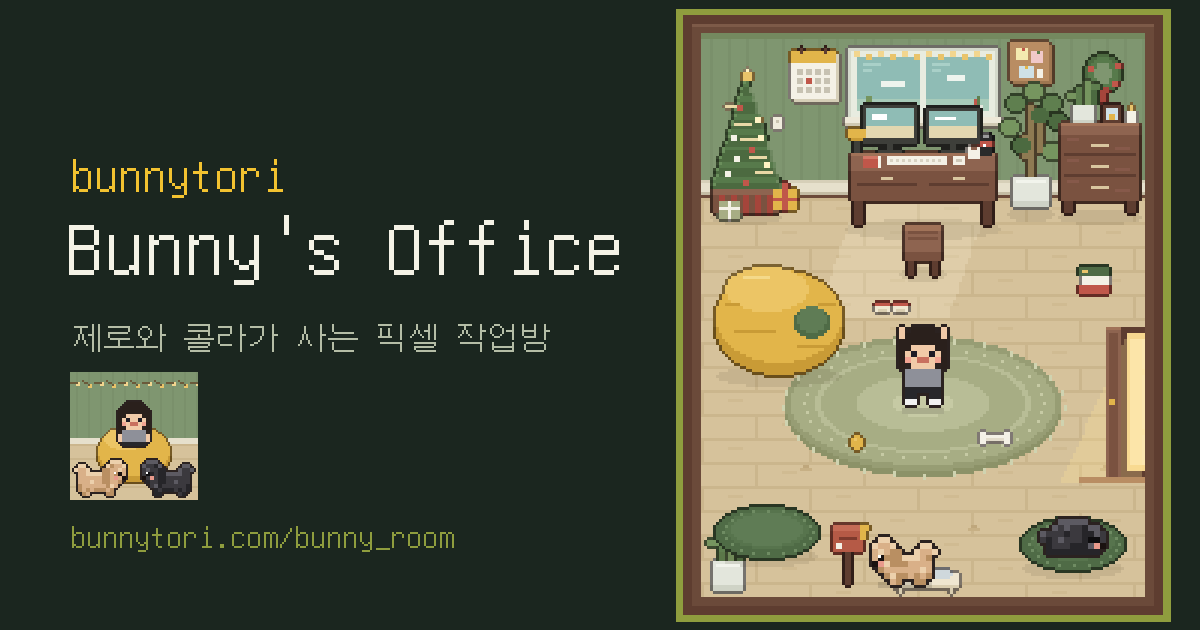
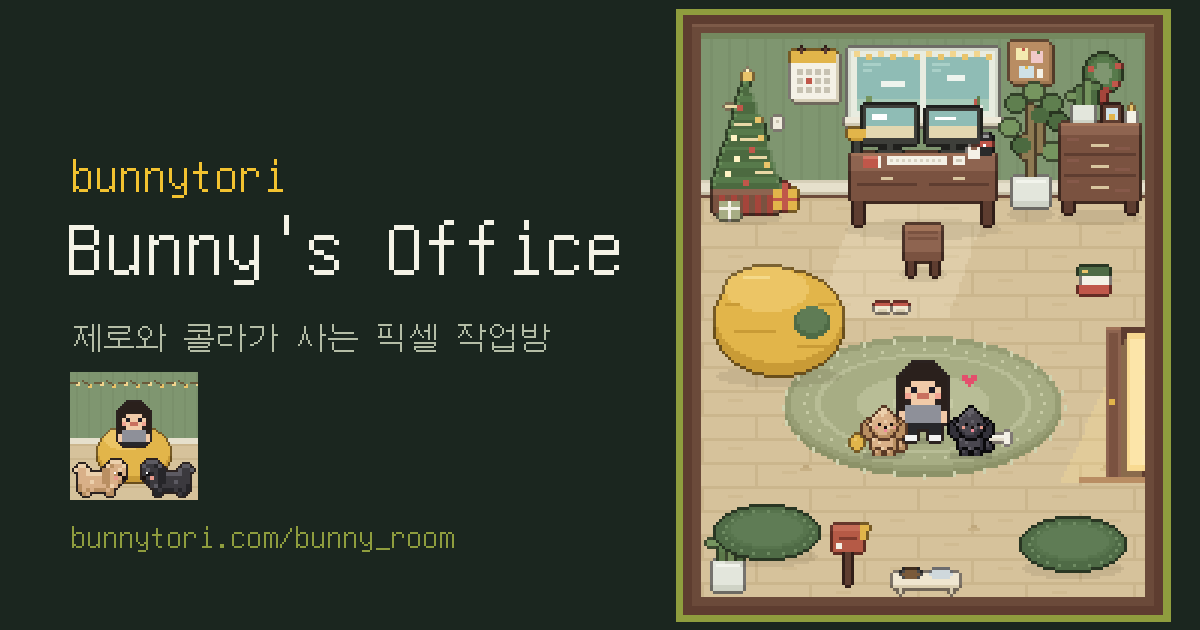
Dogs: smaller front-facing sitting poodles with floppy ears and outline
Claude-Session: https://claude.ai/code/session_017jBMJu5sbdsGT4cjNbDcNS

Changed region(s): [[0.7092, 0.5127, 0.8325, 0.7238], [0.7092, 0.8444, 0.8017, 0.9349], [0.8633, 0.8143, 0.925, 0.9048]]

diff --git a/bunny_room/index.html b/bunny_room/index.html
@@ -326,24 +326,21 @@ function person(c,ox,oy,L,pose,frame,k=1){
     if(L.pattern&&L.pattern[ch]&&((x+y)%2===0))col=L.pattern[ch];
     Rc(c,ox+x*k,oy+y*k,k,k,col);}});
 }
-const D_STAND=[".ll........","lhhl....ll.","hhhdd..lhhl","hehddlllhh.","nbhddhhhhh.",".hhhhhhhhh.","..dhddhdhd."];
-const D_LEGS=["..hd...hd..","...hd..hd..","..hd....hd."];
-const D_SLEEP=["...lllll...",".llhhhhhl..","hhddhhhhhhl","heedhhhhhhh","nbhddhhhhd.",".ddddddddd."];
+const D_POSE={"sit": [".......oo.......", "......ollo......", ".....olllho.....", "....olhlhhho....", "..oolhhhhhhdoo..", ".odohhhhhhhhodo.", "odolhhehhheddodo", "oddohbhhnhhboddo", "oddodhhhthddoddo", "odddodhhhddodddo", ".oddooddddooddo.", "..oolhoooohdoo..", "...ohhhhhhhdoho.", "...ohhhhhhhdohdo", "...odoohhoododdo", "....ohdoohdoooo.", "....oddooddo...."], "walk1": ["................", ".......oo.......", "......ollo......", ".....olllho.....", "....olhlhhho....", "..oolhhhhhhdoo..", ".odohhhhhhhhodo.", "odolhhehhheddodo", "oddohbhhnhhboddo", "oddodhhhthddoddo", "odddodhhhddodddo", ".oddooddddooddo.", "..oohhoooohdooo.", "...ohoohhhhdohdo", "...oohdohoododdo", "....oddoohdoooo.", ".....ooooddo...."], "walk2": [".......oo.......", "......ollo......", ".....olllho.....", "....olhlhhho....", "..oolhhhhhhdoo..", ".odohhhhhhhhodo.", "odolhhehhheddodo", "oddohbhhnhhboddo", "oddodhhhthddoddo", "odddodhhhddodddo", ".oddooddddooddo.", "..oolhoooohdoo..", "...ohhhhhhhdoho.", "...ohhhhhoodohdo", "...odoohohdooddo", "....ohdooddoooo.", "....oddoooo....."], "sleep": ["................", "................", "................", "................", "................", "................", "................", "...ooooo........", "..olhhhhooo.....", ".olhhhhhdohoo...", ".ohhhhhhdohhho..", ".ohhehhedohhhdo.", ".odbhnhdbohhhdoo", ".oodddddohhhddoo", ".odooooohhdddoo.", "..oooodddddooo..", "......ooooo....."]};
 function dog(c,ox,oy,L,pose,frame,flip,k=1){
-  const rows=pose==='sleep'?D_SLEEP:D_STAND.concat([D_LEGS[pose==='walk'?frame:0]]);
-  rows.forEach((r,y)=>{for(let x=0;x<11;x++){const ch=r[x];if(ch==='.')continue;
-    let col={h:L.h,l:L.l,d:L.d,e:L.eye,n:'#1a1210',b:'#e99a8c'}[ch];
-    if(ch==='h'&&(x*3+y*5)%7===0)col=L.d;
+  // front-facing sitting poodle (16x17), its own dark outline included
+  const rows=pose==='sleep'?D_POSE.sleep:pose==='walk'?(frame===2?D_POSE.walk2:D_POSE.walk1):D_POSE.sit;
+  rows.forEach((r,y)=>{for(let x=0;x<16;x++){const ch=r[x];if(ch==='.')continue;
+    let col={o:L.o,h:L.h,l:L.l,d:L.d,e:L.eye,n:'#1a1210',t:'#f08a9a',b:'#e99a8c'}[ch];
     if(ch==='h'&&(x*5+y*3)%11===0)col=L.l;
-    Rc(c,ox+(flip?10-x:x)*k,oy+y*k,k,k,col);}});
-  if(pose!=='sleep'){const ex=flip?ox+9*k:ox+1*k;Rc(c,ex,oy+3*k,1,1,'#ffffff');}
+    Rc(c,ox+(flip?15-x:x)*k,oy+y*k,k,k,col);}});
 }
 
 /* ---------- cast ---------- */
 const ACTORS=[
   {id:'me',name:'나',kind:'person',look:null},
-  {id:'latte',name:'제로',kind:'dog',look:{h:'#d9b088',l:'#ecd0ac',d:'#b98f62',eye:'#1a1210'}},
-  {id:'choco',name:'콜라',kind:'dog',look:{h:'#3b393e',l:'#5c5a62',d:'#262529',eye:'#0e0d0f'}},
+  {id:'latte',name:'제로',kind:'dog',look:{o:'#5a3a26',h:'#d9b088',l:'#ecd0ac',d:'#b98f62',eye:'#1a1210'}},
+  {id:'choco',name:'콜라',kind:'dog',look:{o:'#0b0a0c',h:'#4a474f',l:'#646169',d:'#33313a',eye:'#0b0a0c'}},
 ];
 const byId=Object.fromEntries(ACTORS.map(a=>[a.id,a]));
 /* outfits: grey hoodie + black pants while working (9–20), red check pyjamas otherwise */
@@ -586,12 +583,12 @@ function sprite2(kind,look,pose,frame,flip,x,y){
   let c=SPR.get(key);
   if(!c){const w=kind==='dog'?30:20,h=kind==='dog'?24:32,ox=2,oy=kind==='dog'?2:4;
     const tmp=document.createElement('canvas');tmp.width=w;tmp.height=h;const tc=tmp.getContext('2d');
-    const draw=()=>{if(kind==='dog')dog(tc,ox,oy,look,pose,frame,flip,2);else person(tc,ox,oy,look,pose,frame,2);};
+    const draw=()=>{if(kind==='dog')dog(tc,ox,oy,look,pose,frame,flip,1);else person(tc,ox,oy,look,pose,frame,2);};
     draw();
     c=document.createElement('canvas');c.width=w;c.height=h;const cc=c.getContext('2d');
     // outline computed from the drawn sprite
     const d=tc.getImageData(0,0,w,h).data,out=cc.createImageData(w,h),o=out.data;
-    for(let yy=0;yy<h;yy++)for(let xx=0;xx<w;xx++){const i=(yy*w+xx)*4;if(d[i+3]>20)continue;
+    if(kind!=='dog')for(let yy=0;yy<h;yy++)for(let xx=0;xx<w;xx++){const i=(yy*w+xx)*4;if(d[i+3]>20)continue;
       for(const [dx,dy] of [[1,0],[-1,0],[0,1],[0,-1]]){const nx=xx+dx,ny=yy+dy;if(nx<0||ny<0||nx>=w||ny>=h)continue;if(d[(ny*w+nx)*4+3]>200){o[i]=43;o[i+1]=34;o[i+2]=32;o[i+3]=255;break;}}}
     cc.putImageData(out,0,0);cc.drawImage(tmp,0,0);c.ox=ox;c.oy=oy;SPR.set(key,c);}
   ctx.drawImage(c,Math.round(x)-c.ox,Math.round(y)-c.oy);
@@ -1142,7 +1139,7 @@ function step(now){
   const items=(VIEW==='work'?FURN:LFURN).map((f,i)=>({y:f.y,draw:()=>{{const k=(VIEW==='work'?'f':'l')+i;if(!OL[k])OL[k]=outlineOf(f.d,W,H);ctx.drawImage(OL[k],0,0);}f.d(t);}}));
   ACTORS.filter(a=>a.scene===VIEW).forEach(a=>items.push({y:a.y,draw:()=>{
     const x=Math.round(a.x),y=Math.round(a.y);
-    if(a.kind==='dog'){R(x-9,y-1,18,2,'rgba(0,0,0,.13)');const hop=(a.pop>1.6)?-3:0;sprite2('dog',a.look,a.pose,a.frame,a.flip,x-11,y-(a.pose==='sleep'?12:16)+hop);}
+    if(a.kind==='dog'){R(x-7,y-1,14,2,'rgba(0,0,0,.13)');const hop=(a.pop>1.6)?-2:0;sprite2('dog',a.look,a.pose,a.frame,a.flip,x-8,y-17+hop);}
     else{const st=a.pose!=='sit'&&a.pose!=='sitback';if(st)R(x-7,y-1,14,2,'rgba(0,0,0,.14)');
       const bob=a.pose==='stretch'&&Math.floor(t*2)%2?-1:0;
       sprite2('person',a.look,a.pose,a.frame,false,x-8,y-(st?26:22)+bob);}
@@ -1154,7 +1151,7 @@ function step(now){
   drawHearts(dt);
   ACTORS.forEach(a=>{
     a.el.style.display=a.scene===VIEW?'':'none';
-    const top=a.kind==='dog'?(a.pose==='sleep'?13:17):(a.pose==='sit'||a.pose==='sitback'?23:a.pose==='stretch'?29:27);
+    const top=a.kind==='dog'?(a.pose==='sleep'?11:18):(a.pose==='sit'||a.pose==='sitback'?23:a.pose==='stretch'?29:27);
     a.el.style.left=a.x/W*100+'%';a.el.style.top=(a.y-top)/H*100+'%';
     const moving=a.kind==='dog'?a.pose==='walk':a.path.length>0;
     const txt=a.pop>0?a.popText:(a.id==='me'&&!moving?a.bubble:'');

diff --git a/index.html b/index.html
@@ -326,24 +326,21 @@ function person(c,ox,oy,L,pose,frame,k=1){
     if(L.pattern&&L.pattern[ch]&&((x+y)%2===0))col=L.pattern[ch];
     Rc(c,ox+x*k,oy+y*k,k,k,col);}});
 }
-const D_STAND=[".ll........","lhhl....ll.","hhhdd..lhhl","hehddlllhh.","nbhddhhhhh.",".hhhhhhhhh.","..dhddhdhd."];
-const D_LEGS=["..hd...hd..","...hd..hd..","..hd....hd."];
-const D_SLEEP=["...lllll...",".llhhhhhl..","hhddhhhhhhl","heedhhhhhhh","nbhddhhhhd.",".ddddddddd."];
+const D_POSE={"sit": [".......oo.......", "......ollo......", ".....olllho.....", "....olhlhhho....", "..oolhhhhhhdoo..", ".odohhhhhhhhodo.", "odolhhehhheddodo", "oddohbhhnhhboddo", "oddodhhhthddoddo", "odddodhhhddodddo", ".oddooddddooddo.", "..oolhoooohdoo..", "...ohhhhhhhdoho.", "...ohhhhhhhdohdo", "...odoohhoododdo", "....ohdoohdoooo.", "....oddooddo...."], "walk1": ["................", ".......oo.......", "......ollo......", ".....olllho.....", "....olhlhhho....", "..oolhhhhhhdoo..", ".odohhhhhhhhodo.", "odolhhehhheddodo", "oddohbhhnhhboddo", "oddodhhhthddoddo", "odddodhhhddodddo", ".oddooddddooddo.", "..oohhoooohdooo.", "...ohoohhhhdohdo", "...oohdohoododdo", "....oddoohdoooo.", ".....ooooddo...."], "walk2": [".......oo.......", "......ollo......", ".....olllho.....", "....olhlhhho....", "..oolhhhhhhdoo..", ".odohhhhhhhhodo.", "odolhhehhheddodo", "oddohbhhnhhboddo", "oddodhhhthddoddo", "odddodhhhddodddo", ".oddooddddooddo.", "..oolhoooohdoo..", "...ohhhhhhhdoho.", "...ohhhhhoodohdo", "...odoohohdooddo", "....ohdooddoooo.", "....oddoooo....."], "sleep": ["................", "................", "................", "................", "................", "................", "................", "...ooooo........", "..olhhhhooo.....", ".olhhhhhdohoo...", ".ohhhhhhdohhho..", ".ohhehhedohhhdo.", ".odbhnhdbohhhdoo", ".oodddddohhhddoo", ".odooooohhdddoo.", "..oooodddddooo..", "......ooooo....."]};
 function dog(c,ox,oy,L,pose,frame,flip,k=1){
-  const rows=pose==='sleep'?D_SLEEP:D_STAND.concat([D_LEGS[pose==='walk'?frame:0]]);
-  rows.forEach((r,y)=>{for(let x=0;x<11;x++){const ch=r[x];if(ch==='.')continue;
-    let col={h:L.h,l:L.l,d:L.d,e:L.eye,n:'#1a1210',b:'#e99a8c'}[ch];
-    if(ch==='h'&&(x*3+y*5)%7===0)col=L.d;
+  // front-facing sitting poodle (16x17), its own dark outline included
+  const rows=pose==='sleep'?D_POSE.sleep:pose==='walk'?(frame===2?D_POSE.walk2:D_POSE.walk1):D_POSE.sit;
+  rows.forEach((r,y)=>{for(let x=0;x<16;x++){const ch=r[x];if(ch==='.')continue;
+    let col={o:L.o,h:L.h,l:L.l,d:L.d,e:L.eye,n:'#1a1210',t:'#f08a9a',b:'#e99a8c'}[ch];
     if(ch==='h'&&(x*5+y*3)%11===0)col=L.l;
-    Rc(c,ox+(flip?10-x:x)*k,oy+y*k,k,k,col);}});
-  if(pose!=='sleep'){const ex=flip?ox+9*k:ox+1*k;Rc(c,ex,oy+3*k,1,1,'#ffffff');}
+    Rc(c,ox+(flip?15-x:x)*k,oy+y*k,k,k,col);}});
 }
 
 /* ---------- cast ---------- */
 const ACTORS=[
   {id:'me',name:'나',kind:'person',look:null},
-  {id:'latte',name:'제로',kind:'dog',look:{h:'#d9b088',l:'#ecd0ac',d:'#b98f62',eye:'#1a1210'}},
-  {id:'choco',name:'콜라',kind:'dog',look:{h:'#3b393e',l:'#5c5a62',d:'#262529',eye:'#0e0d0f'}},
+  {id:'latte',name:'제로',kind:'dog',look:{o:'#5a3a26',h:'#d9b088',l:'#ecd0ac',d:'#b98f62',eye:'#1a1210'}},
+  {id:'choco',name:'콜라',kind:'dog',look:{o:'#0b0a0c',h:'#4a474f',l:'#646169',d:'#33313a',eye:'#0b0a0c'}},
 ];
 const byId=Object.fromEntries(ACTORS.map(a=>[a.id,a]));
 /* outfits: grey hoodie + black pants while working (9–20), red check pyjamas otherwise */
@@ -586,12 +583,12 @@ function sprite2(kind,look,pose,frame,flip,x,y){
   let c=SPR.get(key);
   if(!c){const w=kind==='dog'?30:20,h=kind==='dog'?24:32,ox=2,oy=kind==='dog'?2:4;
     const tmp=document.createElement('canvas');tmp.width=w;tmp.height=h;const tc=tmp.getContext('2d');
-    const draw=()=>{if(kind==='dog')dog(tc,ox,oy,look,pose,frame,flip,2);else person(tc,ox,oy,look,pose,frame,2);};
+    const draw=()=>{if(kind==='dog')dog(tc,ox,oy,look,pose,frame,flip,1);else person(tc,ox,oy,look,pose,frame,2);};
     draw();
     c=document.createElement('canvas');c.width=w;c.height=h;const cc=c.getContext('2d');
     // outline computed from the drawn sprite
     const d=tc.getImageData(0,0,w,h).data,out=cc.createImageData(w,h),o=out.data;
-    for(let yy=0;yy<h;yy++)for(let xx=0;xx<w;xx++){const i=(yy*w+xx)*4;if(d[i+3]>20)continue;
+    if(kind!=='dog')for(let yy=0;yy<h;yy++)for(let xx=0;xx<w;xx++){const i=(yy*w+xx)*4;if(d[i+3]>20)continue;
       for(const [dx,dy] of [[1,0],[-1,0],[0,1],[0,-1]]){const nx=xx+dx,ny=yy+dy;if(nx<0||ny<0||nx>=w||ny>=h)continue;if(d[(ny*w+nx)*4+3]>200){o[i]=43;o[i+1]=34;o[i+2]=32;o[i+3]=255;break;}}}
     cc.putImageData(out,0,0);cc.drawImage(tmp,0,0);c.ox=ox;c.oy=oy;SPR.set(key,c);}
   ctx.drawImage(c,Math.round(x)-c.ox,Math.round(y)-c.oy);
@@ -1142,7 +1139,7 @@ function step(now){
   const items=(VIEW==='work'?FURN:LFURN).map((f,i)=>({y:f.y,draw:()=>{{const k=(VIEW==='work'?'f':'l')+i;if(!OL[k])OL[k]=outlineOf(f.d,W,H);ctx.drawImage(OL[k],0,0);}f.d(t);}}));
   ACTORS.filter(a=>a.scene===VIEW).forEach(a=>items.push({y:a.y,draw:()=>{
     const x=Math.round(a.x),y=Math.round(a.y);
-    if(a.kind==='dog'){R(x-9,y-1,18,2,'rgba(0,0,0,.13)');const hop=(a.pop>1.6)?-3:0;sprite2('dog',a.look,a.pose,a.frame,a.flip,x-11,y-(a.pose==='sleep'?12:16)+hop);}
+    if(a.kind==='dog'){R(x-7,y-1,14,2,'rgba(0,0,0,.13)');const hop=(a.pop>1.6)?-2:0;sprite2('dog',a.look,a.pose,a.frame,a.flip,x-8,y-17+hop);}
     else{const st=a.pose!=='sit'&&a.pose!=='sitback';if(st)R(x-7,y-1,14,2,'rgba(0,0,0,.14)');
       const bob=a.pose==='stretch'&&Math.floor(t*2)%2?-1:0;
       sprite2('person',a.look,a.pose,a.frame,false,x-8,y-(st?26:22)+bob);}
@@ -1154,7 +1151,7 @@ function step(now){
   drawHearts(dt);
   ACTORS.forEach(a=>{
     a.el.style.display=a.scene===VIEW?'':'none';
-    const top=a.kind==='dog'?(a.pose==='sleep'?13:17):(a.pose==='sit'||a.pose==='sitback'?23:a.pose==='stretch'?29:27);
+    const top=a.kind==='dog'?(a.pose==='sleep'?11:18):(a.pose==='sit'||a.pose==='sitback'?23:a.pose==='stretch'?29:27);
     a.el.style.left=a.x/W*100+'%';a.el.style.top=(a.y-top)/H*100+'%';
     const moving=a.kind==='dog'?a.pose==='walk':a.path.length>0;
     const txt=a.pop>0?a.popText:(a.id==='me'&&!moving?a.bubble:'');
